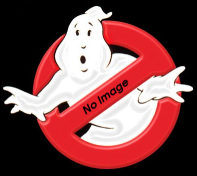
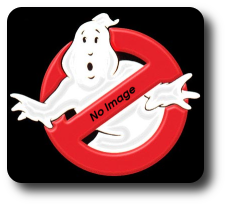
imp: checked SDLMAME 0.132u1 compatibility imp: ghost image enhanced (rounded corners / semi-transparent shadow)

diff --git a/data/doc/html/us/changes.html b/data/doc/html/us/changes.html
@@ -5,7 +5,7 @@
   <title>M.A.M.E./M.E.S.S. Catalog / Launcher II Documentation - CHANGES</title>
 </head>
 <body style="color: black; background-image:url(img/doc-bg.jpg);" dir="ltr" alink="#111111" link="#111111" vlink="#999999">
-<h3>CHANGES - v0.2.b10, 16-JUN-2009</h3>
+<h3>CHANGES - v0.2.b10, 18-JUN-2009</h3>
 <p>
 fix: general bug fixes<br>
 imp: improved functionality<br>
@@ -14,7 +14,7 @@ wip: (incomplete) work in progress<br>
 doc: documentation changes<br>
 inf: informational only
 </p>
-<p><b>v0.2.b10, 16-JUN-2009:</b></p>
+<p><b>v0.2.b10, 18-JUN-2009:</b></p>
 <ul>
   <li>fix: clear MAWS lookup correctly when reloading game list</li>
   <li>fix: corrected icon size adjustment for mini web browser, detail setup and ROM status exporter</li>
@@ -22,6 +22,8 @@ inf: informational only
   <li>imp: log discovered emulator <i>type</i> (MAME or MESS) together with its version</li>
   <li>imp: download manager: remember / preselect last storage path when presenting the file name chooser, show download details in tool tip</li>
   <li>imp: about dialog: using QDesktopServices to launch default browser when following links</li>
+  <li>imp: SDLMAME template updated to 0.132u1 (no new options)</li>
+  <li>imp: ghost image enhanced (rounded corners with a semi-transparent shadow)</li>
   <li>new: built-in support for dynamic loading of Qt style sheets -- note: due to a Qt bug, for now we have to change the current working directory to the style sheet's directory to make sure relative paths (image URLs) are handled correctly</li>
   <li>new: support for PCB images as an additional game/machine detail</i>
   <li>doc: adopted new homepage look to all docs</li>
